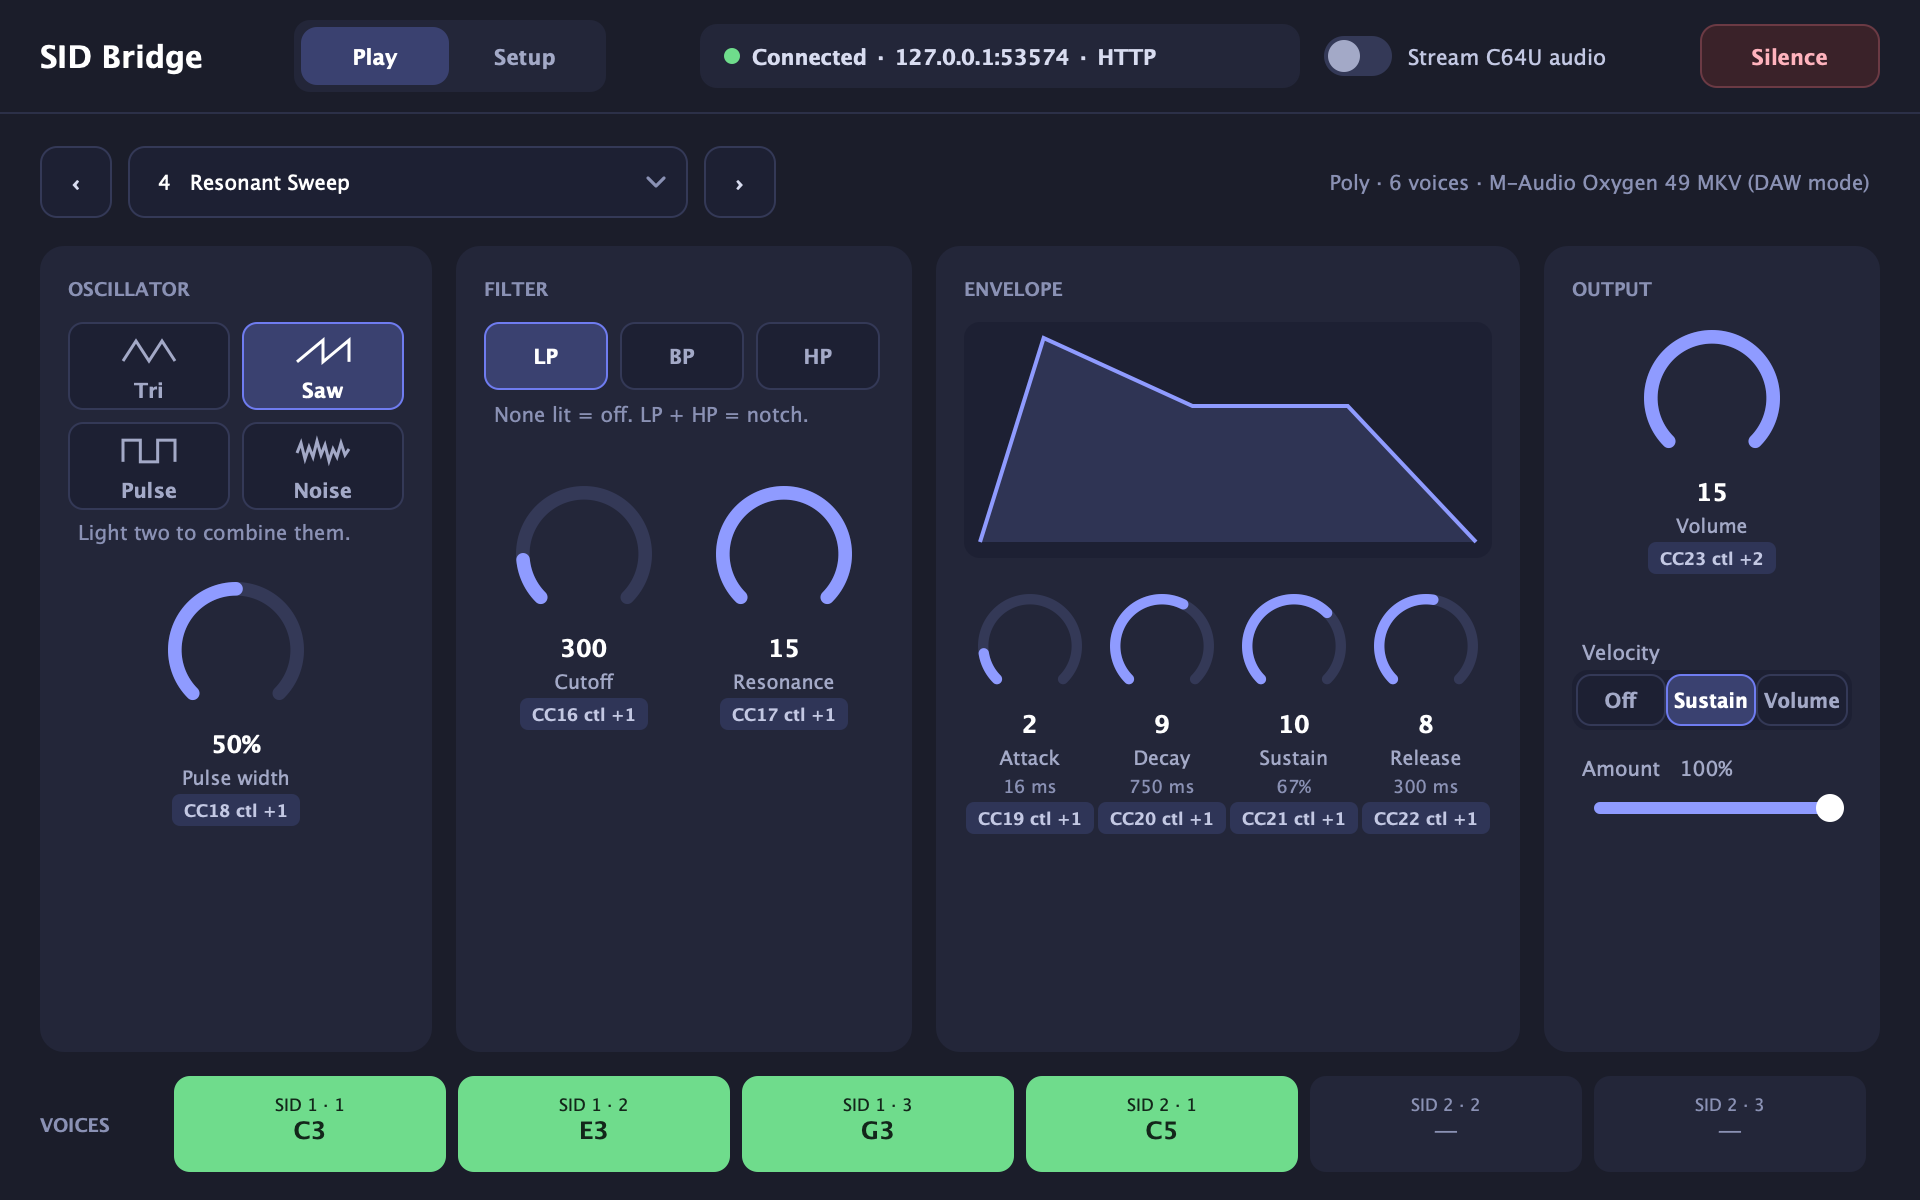
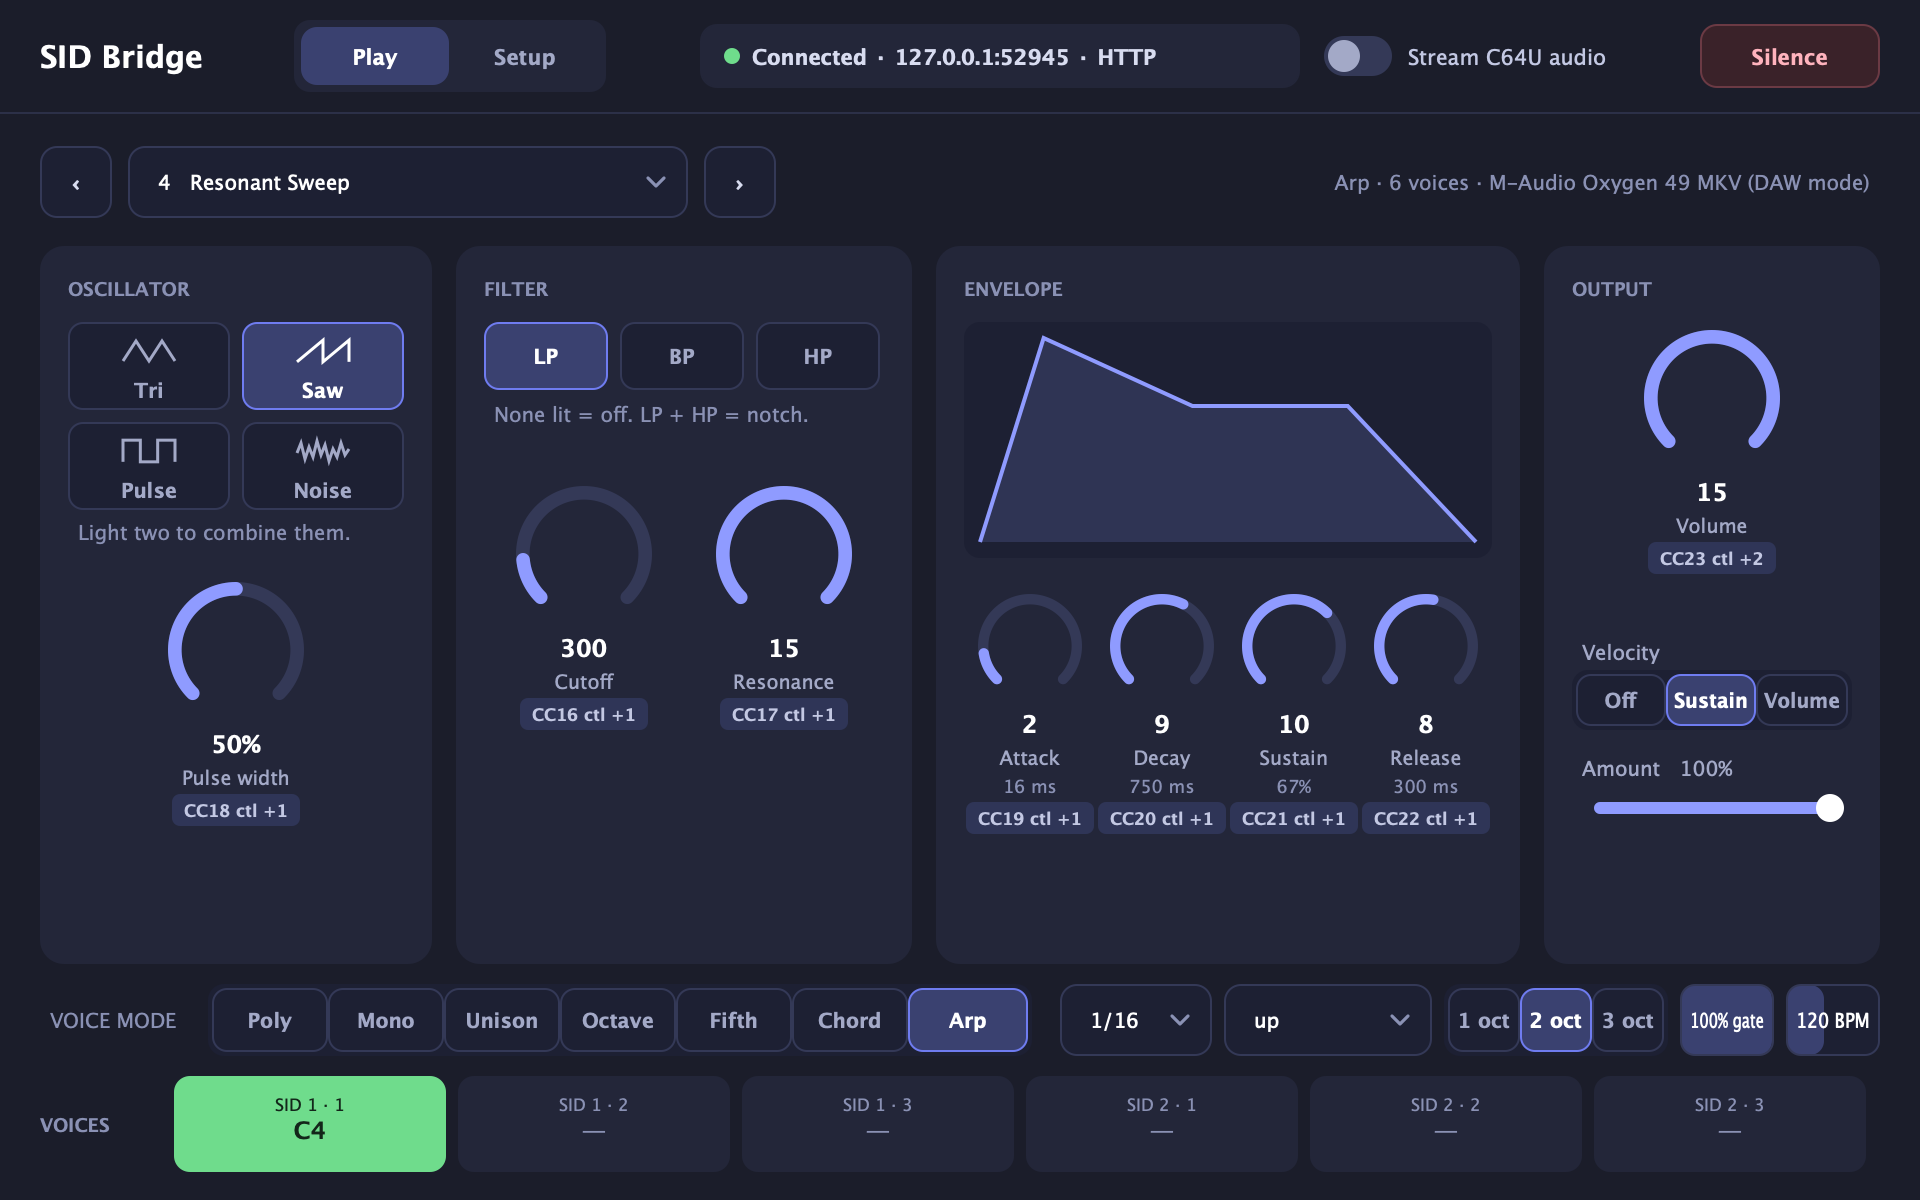
README screenshots: Play with the arpeggiator, current Setup
The snapshot test now renders the Play tab in Arp mode over a held chord.

diff --git a/cpp/plugin/tests/PluginTests.cpp b/cpp/plugin/tests/PluginTests.cpp
@@ -467,9 +467,14 @@ TEST_CASE ("hardware: C64 audio through the plugin", "[.hardware]")
 TEST_CASE ("editor snapshot", "[.snapshot]")
 {
     Rig r ("poly", "oxygen-49-mkv");
-    for (int n : { 48, 52, 55, 72 })
-        r.midi (juce::MidiMessage::noteOn (1, n, (juce::uint8) 100));
     r.proc.setCurrentProgram (4);
+    // the README shot: the arpeggiator running over a held chord
+    r.setPlain ("voice_mode", 6.0f);
+    r.setPlain ("arp_octaves", 2.0f);
+    r.setPlain ("arp_gate", 100.0f);
+    pump (100);
+    for (int n : { 48, 52, 55 })
+        r.midi (juce::MidiMessage::noteOn (1, n, (juce::uint8) 100));
     REQUIRE (waitFor ([&] { return r.proc.bridge().status().presetName == "Resonant Sweep"; }));
     std::unique_ptr<juce::AudioProcessorEditor> ed (r.proc.createEditor());
     auto* editor = dynamic_cast<SidBridgeEditor*> (ed.get());
@@ -485,8 +490,6 @@ TEST_CASE ("editor snapshot", "[.snapshot]")
     auto base = juce::SystemStats::getEnvironmentVariable ("MSID_SNAPSHOT", "/tmp/sidbridge.png");
     editor->showTab (SidBridgeEditor::Tab::play);
     shoot (base);
-    r.setPlain ("voice_mode", 6.0f);   // arp
-    shoot (base.replace (".png", "-arp.png"));
     r.setPlain ("voice_mode", 5.0f);   // chord
     shoot (base.replace (".png", "-chord.png"));
     r.setPlain ("voice_mode", 0.0f);

diff --git a/README.md b/README.md
@@ -14,7 +14,7 @@ There are two front ends, and both use the same engine:
 - **SID Bridge**: a JUCE instrument plugin (VST3 and AU) plus a standalone app, built from
   `cpp/`.
 
-![SID Bridge plugin](docs/sid-bridge-plugin.png)
+![SID Bridge: the Play tab, with the arpeggiator running over a held chord](docs/sid-bridge-plugin.png)
 
 ## What it does
 
